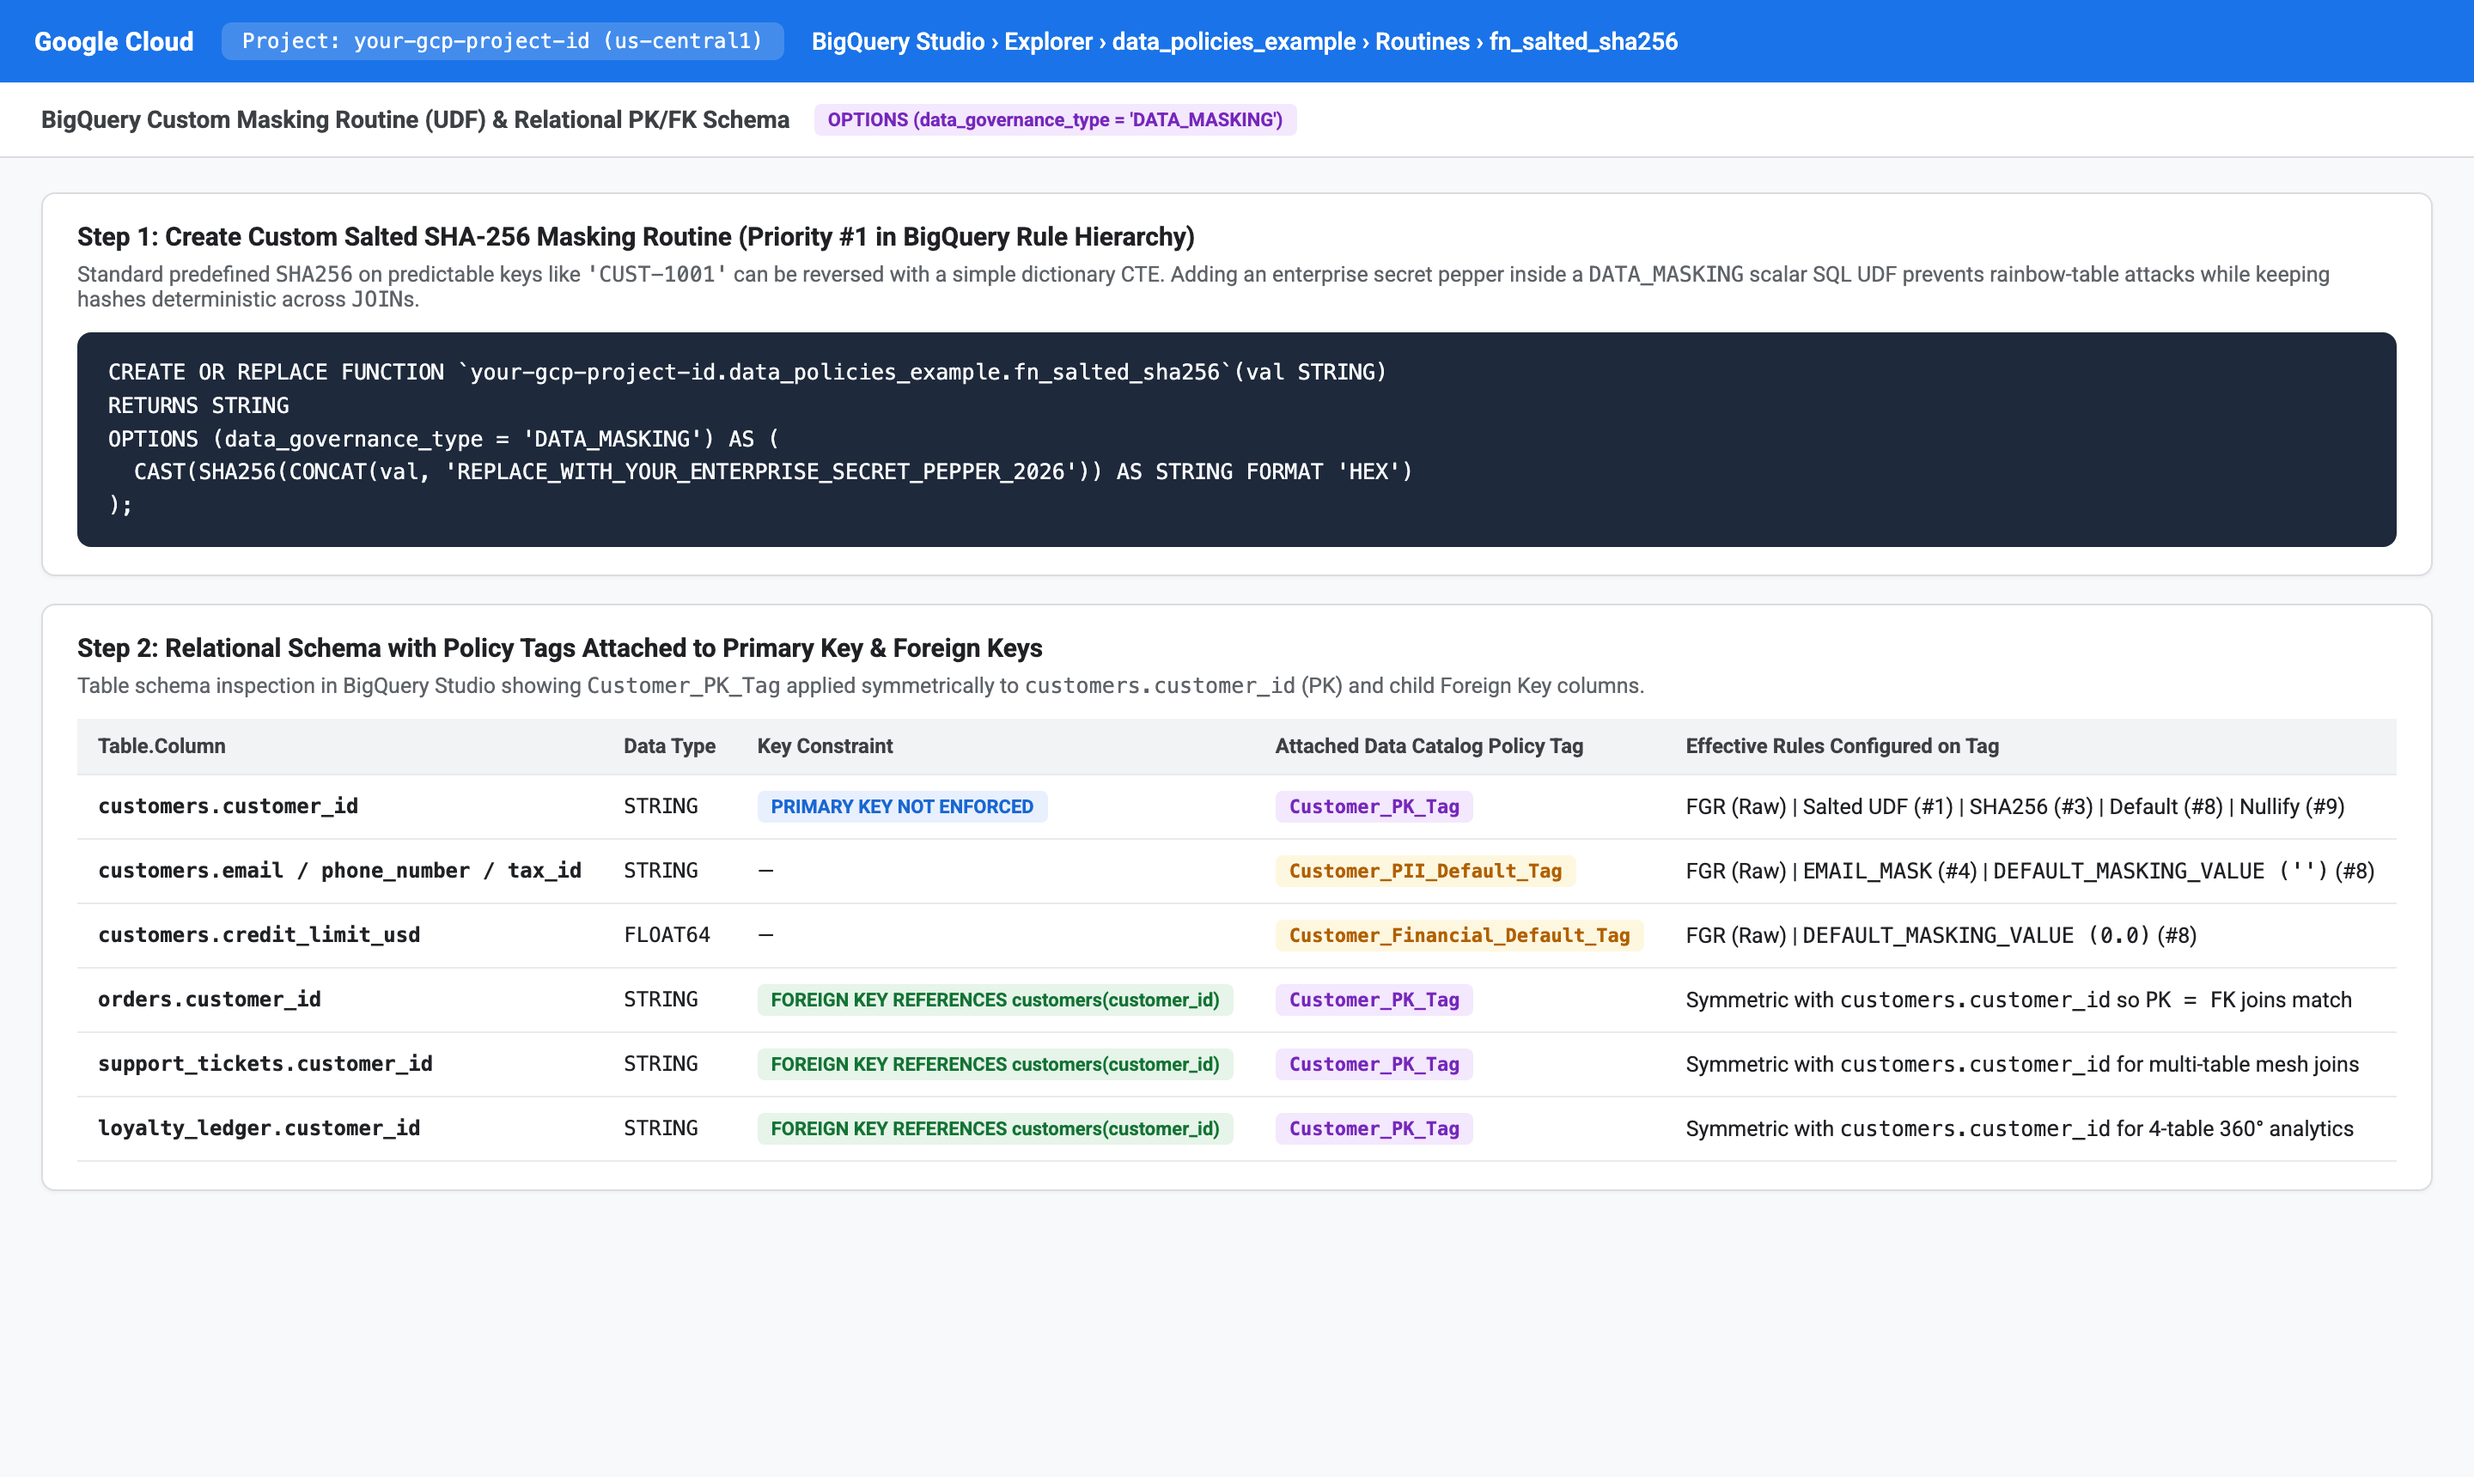
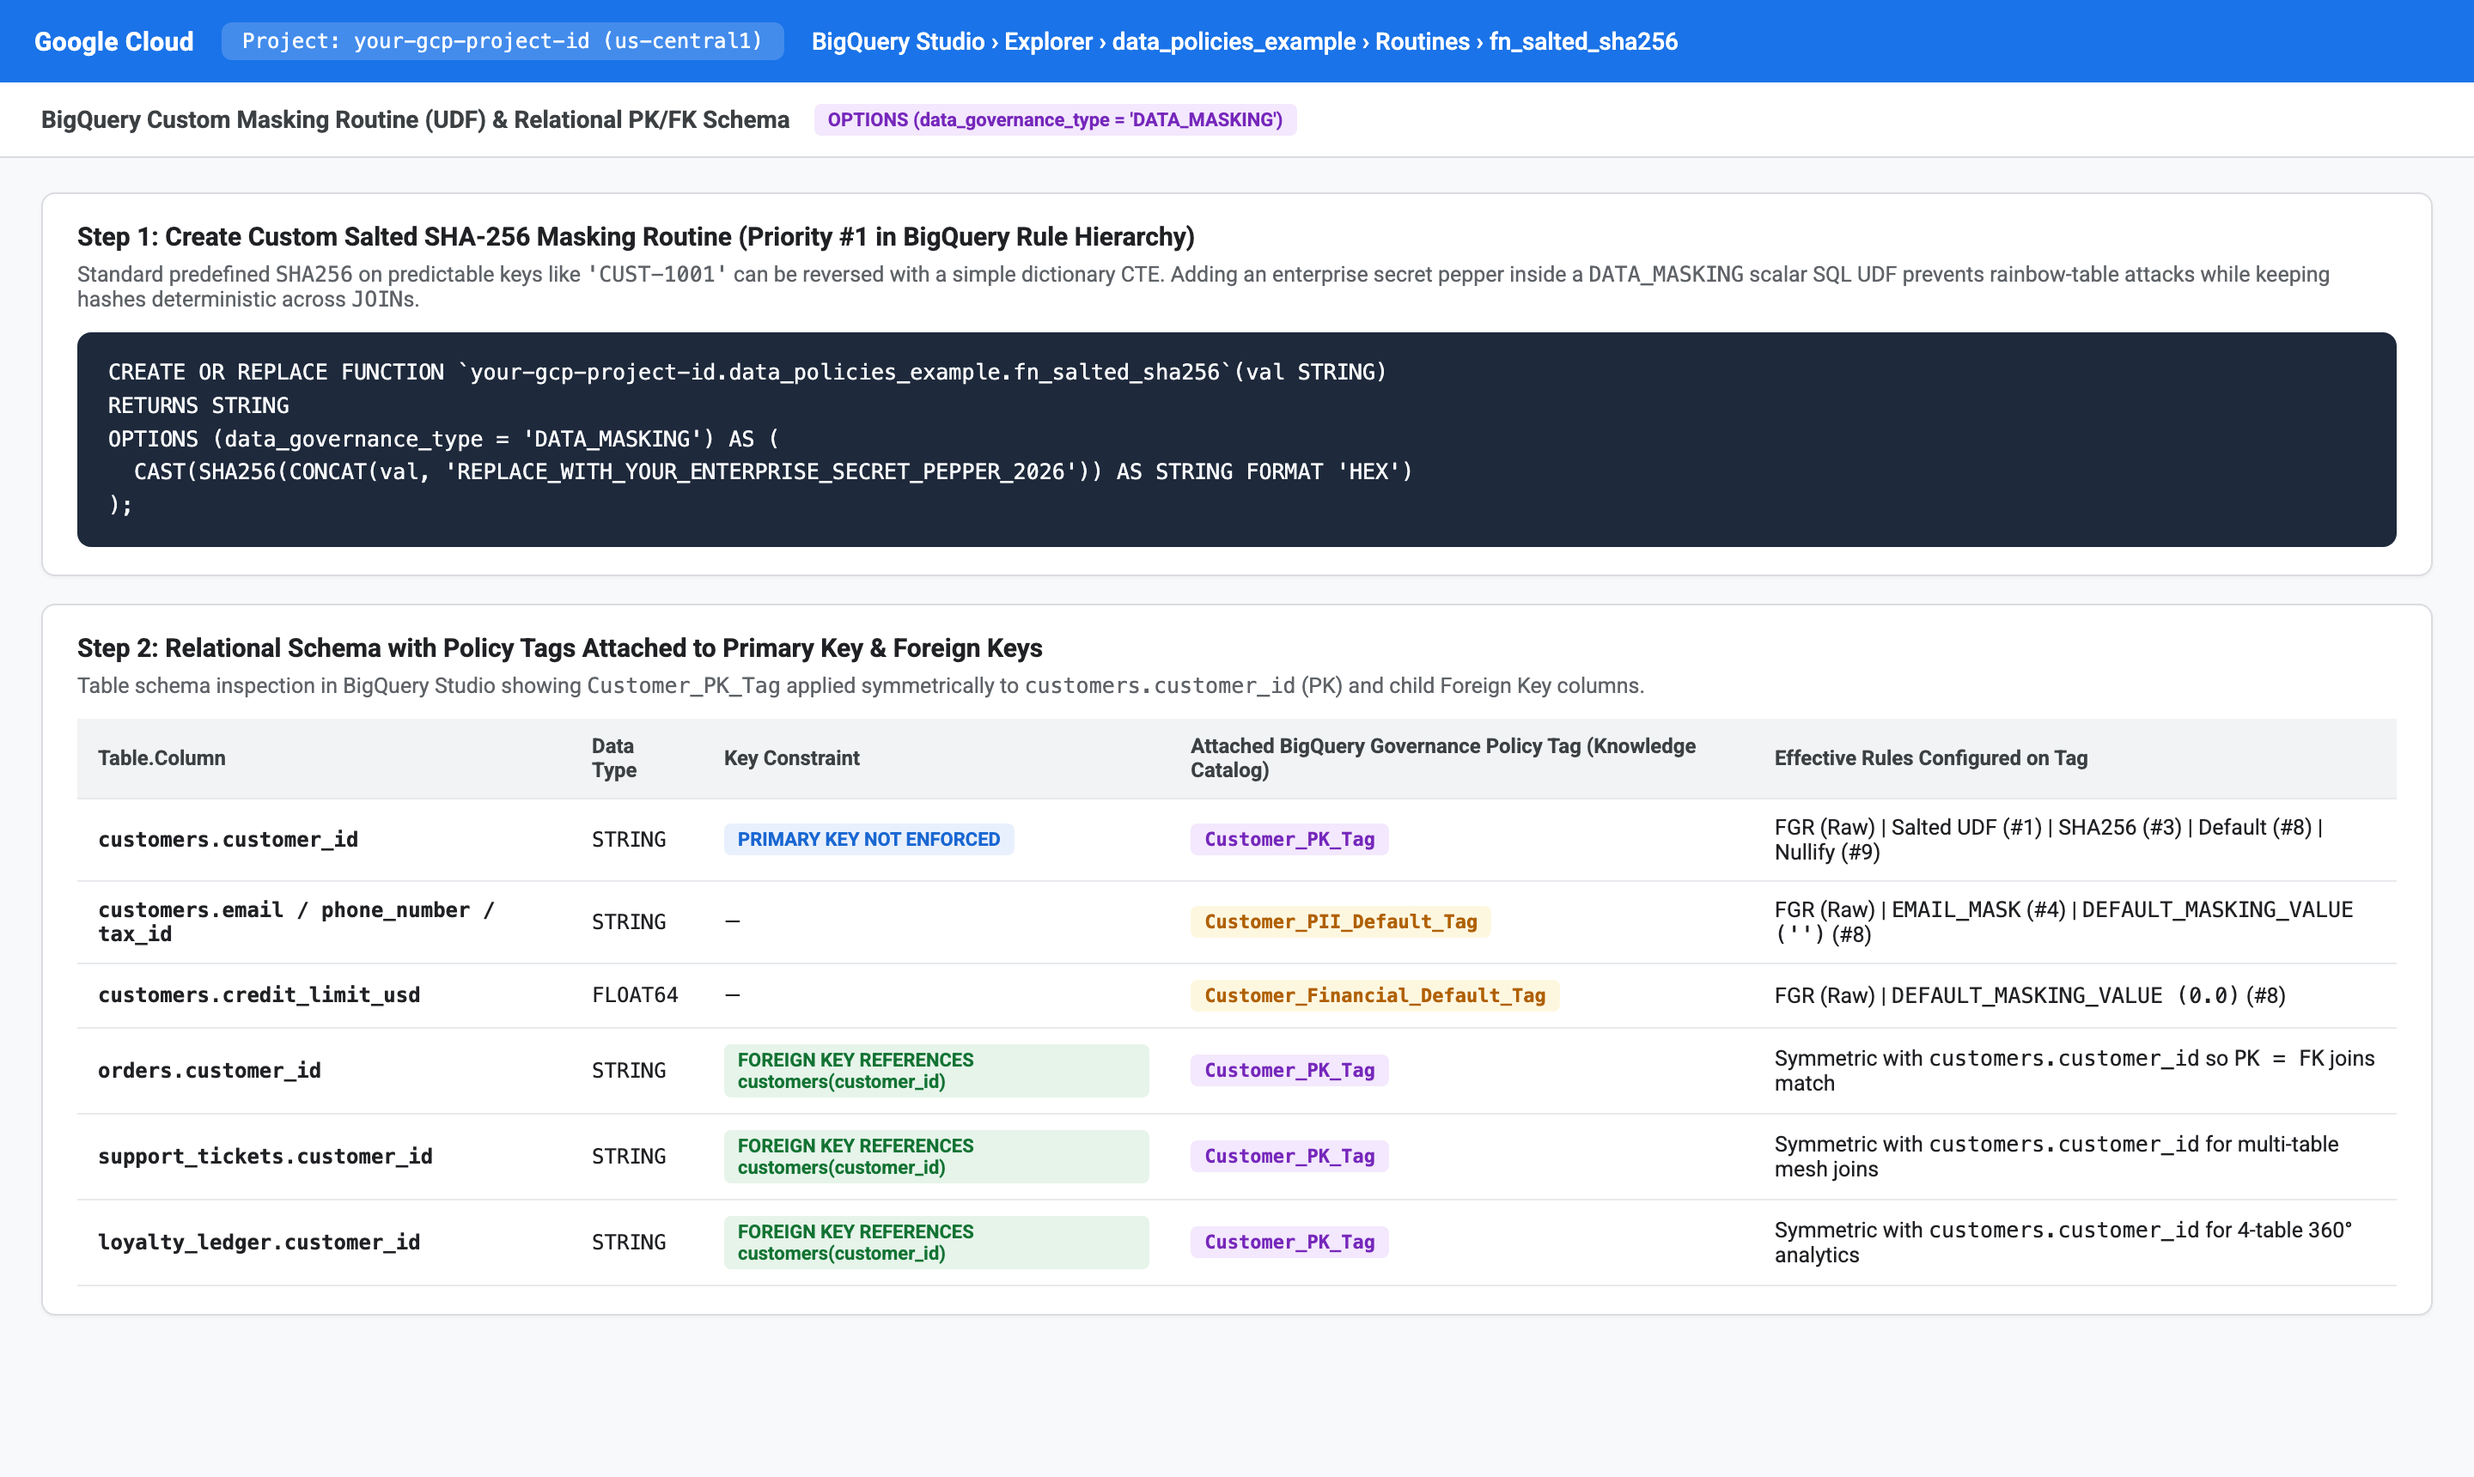
Use current Knowledge Catalog & BigQuery Governance Policy Tag naming across docs, UI, and screenshots

diff --git a/frontend/dist/index.html b/frontend/dist/index.html
@@ -66,7 +66,7 @@
         <div class="top-bar-left">
           <div class="eyebrow-chips">
             <span class="chip chip-blue">LIVE BIGQUERY EXECUTION</span>
-            <span class="chip chip-emerald">DATA CATALOG POLICY TAGS</span>
+            <span class="chip chip-emerald">KNOWLEDGE CATALOG &amp; BQ POLICY TAGS</span>
             <span class="chip chip-purple">CUSTOM UDF: fn_salted_sha256</span>
           </div>
           <h1 class="page-title">Multiple Dynamic Masking Policies on a Relational Primary &amp; Foreign Key</h1>
@@ -277,7 +277,7 @@ OPTIONS (data_governance_type = 'DATA_MASKING') AS (
             <div>
               <h2 class="section-title">Interactive Architecture Blueprint: Policy Tag &amp; Multi-Policy Join Topology</h2>
               <p class="section-desc">
-                Interactive SVG architecture map illustrating how Data Catalog Taxonomy <code>CustomerGovernanceTaxonomy</code>, the 7 Data Policies, and the 4 relational tables interact at query runtime.
+                Interactive SVG architecture map illustrating how BigQuery Governance Policy Tag Taxonomy (Knowledge Catalog) <code>CustomerGovernanceTaxonomy</code>, the 7 Data Policies, and the 4 relational tables interact at query runtime.
               </p>
             </div>
             <a href="/architecture-map.html" target="_blank" rel="noopener noreferrer" class="btn btn-secondary">

diff --git a/frontend/dist/app.js b/frontend/dist/app.js
@@ -236,7 +236,7 @@ function populateResourcesList(state, links) {
       url: links.bigquery_dataset,
     },
     {
-      name: "Data Catalog Taxonomy: CustomerGovernanceTaxonomy",
+      name: "BigQuery Governance Policy Tag Taxonomy (Knowledge Catalog): CustomerGovernanceTaxonomy",
       id: state.taxonomy.name,
       url: links.policy_tag_taxonomy,
     },
@@ -288,8 +288,8 @@ function populateImplementationGuide(state, sqlScripts) {
 
   const steps = [
     {
-      title: `Part 1: Provision Data Catalog Taxonomy & Policy Tags (${state.location})`,
-      desc: "Create the fine-grained access control taxonomy CustomerGovernanceTaxonomy and the Customer_PK_Tag policy tag attached to both Primary Key and Foreign Key columns.",
+      title: `Part 1: Provision BigQuery Governance Policy Tag Taxonomy (Knowledge Catalog) & Policy Tags (${state.location})`,
+      desc: "Create the fine-grained access control taxonomy CustomerGovernanceTaxonomy (in BigQuery > Governance > Policy tags) and the Customer_PK_Tag policy tag attached to both Primary Key and Foreign Key columns.",
       code: `cp .env.example .env
 # Edit .env with GOOGLE_CLOUD_PROJECT="${state.project_id}" and your persona principals
 

diff --git a/frontend/dist/architecture-map.html b/frontend/dist/architecture-map.html
@@ -155,10 +155,10 @@
       <text x="68" y="630" fill="#cbd5e1" font-size="10">BigQuery 9-Tier Hierarchy selects Priority #1 (Salted UDF)</text>
       <text x="68" y="646" fill="#cbd5e1" font-size="10">over Priority #9 (ALWAYS_NULL) -> 12 Rows Returned</text>
 
-      <!-- Column 2: Data Catalog Policy Tag & Data Policies -->
+      <!-- Column 2: Knowledge Catalog & BigQuery Governance Policy Tag & Data Policies -->
       <rect x="420" y="24" width="430" height="672" rx="14" fill="#111827" stroke="#334155" />
-      <text x="440" y="56" fill="#f8fafc" font-size="15" font-weight="700">2. Data Catalog Taxonomy &amp; Data Policies</text>
-      <text x="440" y="76" fill="#94a3b8" font-size="11">Taxonomy: CustomerGovernanceTaxonomy (us-central1)</text>
+      <text x="440" y="56" fill="#f8fafc" font-size="14" font-weight="700">2. Knowledge Catalog &amp; BQ Policy Tags + Data Policies</text>
+      <text x="440" y="76" fill="#94a3b8" font-size="11">BigQuery Governance Taxonomy: CustomerGovernanceTaxonomy (us-central1)</text>
 
       <!-- Central Policy Tag Box -->
       <rect x="444" y="96" width="382" height="68" rx="10" fill="#1e3a8a" fill-opacity="0.45" stroke="#3b82f6" stroke-width="2" />

diff --git a/provisioning/provision_all.py b/provisioning/provision_all.py
@@ -4,7 +4,7 @@
 Provisions in your configured Google Cloud project (default location `us-central1`, dataset `data_policies_example`):
 1. BigQuery Dataset `data_policies_example`
 2. Custom Masking Routine (UDF) `fn_salted_sha256` with `OPTIONS (data_governance_type = 'DATA_MASKING')`
-3. Data Catalog Taxonomy `CustomerGovernanceTaxonomy` and Policy Tags:
+3. BigQuery Governance Policy Tag Taxonomy (Knowledge Catalog) `CustomerGovernanceTaxonomy` and Policy Tags:
    - `Customer_PK_Tag` (applied to PK & FK `customer_id` columns across 4 relational tables)
    - `Customer_PII_Default_Tag` (applied to `email`, `phone_number`, `tax_id`)
    - `Customer_Financial_Default_Tag` (applied to `credit_limit_usd`)
@@ -122,7 +122,7 @@ def api_headers() -> dict[str, str]:
 
 
 def ensure_taxonomy_and_tags(headers: dict[str, str]) -> tuple[str, dict[str, str]]:
-    print("\n[1/6] Ensuring Data Catalog Taxonomy & Policy Tags...")
+    print("\n[1/6] Ensuring BigQuery Governance Policy Tag Taxonomy (Knowledge Catalog) & Policy Tags...")
     parent = f"projects/{PROJECT_ID}/locations/{LOCATION}"
     resp = requests.get(f"{DATACATALOG_API}/{parent}/taxonomies", headers=headers, timeout=30)
     resp.raise_for_status()
@@ -647,7 +647,7 @@ def create_tables_and_seed_data(bq_client: bigquery.Client, tags: dict[str, str]
         bq_client.query(stmt, job_config=job_config).result()
         print(f"  ✓ Executed DDL/DML step {idx}/{len(ddl_statements)}")
 
-    # Attach Data Catalog Policy Tags to columns via SchemaField PolicyTagList
+    # Attach BigQuery Governance Policy Tags (Knowledge Catalog) to columns via SchemaField PolicyTagList
     table_column_tags = {
         "customers": {
             "customer_id": pk_tag,
@@ -731,7 +731,7 @@ def main() -> int:
                 "user_email": ADMIN_EMAIL,
                 "sa_email": PERSONA_SAS["admin"],
                 "title": "Data Governance Admin",
-                "role_label": "Data Catalog Fine-Grained Reader (on Policy Tags)",
+                "role_label": "Fine-Grained Reader (on Policy Tags)",
                 "pk_policy": "RAW_PLAINTEXT (Fine-Grained Reader)",
                 "pk_example": "CUST-1001",
                 "join_capable": True,

diff --git a/README.md b/README.md
@@ -3,7 +3,7 @@
 **Repository:** `https://github.com/gargravish/bq-data-policy-lab`  
 **Default Dataset:** `data_policies_example` (`us-central1`) | **Taxonomy:** `CustomerGovernanceTaxonomy`
 
-This repository provides a **self-contained customer implementation guide, automated idempotent provisioning suite, live multi-persona verification harness, and interactive web workbench** demonstrating how multiple **BigQuery Column-Level Dynamic Data Masking Policies** attached to a single **Data Catalog Policy Tag (`Customer_PK_Tag`)** behave across relational Primary Key (`PK`) and Foreign Key (`FK`) `JOIN`s.
+This repository provides a **self-contained customer implementation guide, automated idempotent provisioning suite, live multi-persona verification harness, and interactive web workbench** demonstrating how multiple **BigQuery Column-Level Dynamic Data Masking Policies** attached to a single **BigQuery Governance Policy Tag (`Customer_PK_Tag`)**—integrated with **Knowledge Catalog (Dataplex)**—behave across relational Primary Key (`PK`) and Foreign Key (`FK`) `JOIN`s.
 
 ---
 
@@ -13,7 +13,7 @@ All personas execute the **exact same SQL queries** against `data_policies_examp
 
 | Persona / Identity | Role & Policy Assignment | What They See on `customer_id` (PK & FK) | Secondary PII (`email`) & Financial (`credit_limit_usd`) | Cross-Table `JOIN` Capability (`customers ⋈ orders`) | Live Row Count |
 | :--- | :--- | :--- | :--- | :--- | :--- |
-| **Persona 1: Data Governance Admin**<br/>(`ADMIN_USER_EMAIL` / `dp-persona-admin` SA) | **Data Catalog Fine-Grained Reader** (`roles/datacatalog.categoryFineGrainedReader`) on Policy Tags | Raw plaintext:<br/>`'CUST-1001'` | `'alice.smith@acme-global.com'`<br/>`$25,000.00` | **Yes** — Evaluates `'CUST-1001' = 'CUST-1001'` | **12 rows** (2-table)<br/>**7 rows** (4-table) |
+| **Persona 1: Data Governance Admin**<br/>(`ADMIN_USER_EMAIL` / `dp-persona-admin` SA) | **Fine-Grained Reader** (`roles/datacatalog.categoryFineGrainedReader`) on Policy Tags | Raw plaintext:<br/>`'CUST-1001'` | `'alice.smith@acme-global.com'`<br/>`$25,000.00` | **Yes** — Evaluates `'CUST-1001' = 'CUST-1001'` | **12 rows** (2-table)<br/>**7 rows** (4-table) |
 | **Persona 2: Lead Data Scientist**<br/>(`ANALYST_USER_EMAIL` / `dp-persona-testuser` SA) | **BigQuery Masked Reader** (`roles/bigquerydatapolicy.maskedReader`) on **Policy 1 (`dp_customer_pk_salted_sha256`)** — Custom Masking Routine (`fn_salted_sha256`, Priority `#1`) | Salted SHA-256 Hex:<br/>`'9e8efd65e632352c...2e6408d4'` | `'XXXXX@acme-global.com'` (`EMAIL_MASK`)<br/>`$25,000.00` | **Yes** — Evaluates `SaltedSHA256 = SaltedSHA256` across all 4 tables; **immune to rainbow-table reversal** | **12 rows** (2-table)<br/>**7 rows** (4-table) |
 | **Persona 3: External Contractor / Auditor**<br/>(`AUDITOR_USER_EMAIL` / `dp-persona-test2` SA) | **BigQuery Masked Reader** on **Policy 2 (`dp_customer_pk_null`, `ALWAYS_NULL`)** on PK + **`DEFAULT_MASKING_VALUE`** on PII/Financial | Obscured:<br/>`NULL` | `""` (empty string)<br/>`0.0` | **No** — Evaluates `NULL = NULL` as `UNKNOWN` in SQL three-valued logic, safely blocking correlation | **0 rows** (2-table)<br/>**0 rows** (4-table) |
 | **Comparison Persona: Unsalted SHA-256**<br/>(`dp-persona-sha256` SA) | **BigQuery Masked Reader** on **Policy 3 (`dp_customer_pk_sha256`, Predefined `SHA256`, Priority `#3`)** | Base64 SHA-256:<br/>`'vzfLri/gZxdYrzVs...AnZvn8='` | `'XXXXX@acme-global.com'`<br/>`0.0` | **Yes**, but **vulnerable to Rainbow Table dictionary lookup** on sequential IDs (`'CUST-1001'`) | **12 rows** (2-table)<br/>**7 rows** (4-table) |
@@ -35,7 +35,7 @@ flowchart LR
     C["dp-persona-conflict<br/>Bound to Policy 1 (#1) + Policy 2 (#9)"]
   end
 
-  subgraph Governance["2. Data Catalog Taxonomy & Data Policies (us-central1)"]
+  subgraph Governance["2. Knowledge Catalog & BigQuery Governance Policy Tags + Data Policies (us-central1)"]
     TAG["Policy Tag: Customer_PK_Tag<br/>(Taxonomy: CustomerGovernanceTaxonomy)"]
     P1["Policy 1: dp_customer_pk_salted_sha256<br/>Priority #1: Custom UDF fn_salted_sha256"]
     P3["Policy 3: dp_customer_pk_sha256<br/>Priority #3: Predefined SHA256"]
@@ -145,12 +145,16 @@ OPTIONS (data_governance_type = 'DATA_MASKING') AS (
 > **Why Custom Salted SHA-256 instead of Predefined `SHA256`?**
 > Predefined `SHA256` computes an unsalted hash (`TO_BASE64(SHA256('CUST-1001'))` = `'vzfLri/gZxdYrzVsm7yJzqs/c6w2hMce+H5eqAnZvn8='`). Because primary keys like `'CUST-1001'` follow a known sequential pattern, any analyst can generate a dictionary CTE of `SHA256('CUST-1001'..'CUST-9999')` and join it against the masked column to reverse every ID. By embedding an enterprise secret pepper inside `fn_salted_sha256`, authorized data scientists receive deterministic hashes that join seamlessly across `customers`, `orders`, `support_tickets`, and `loyalty_ledger` while defeating rainbow-table lookups.
 
-### Part 2: Create Data Catalog Taxonomy, Policy Tags, & BigQuery Data Policies
+### Part 2: Create BigQuery Governance Policy Tag Taxonomy (Knowledge Catalog) & BigQuery Data Policies
+
+> **Important Note on Current Google Cloud Naming vs. Underlying REST/IAM Identifiers:**
+> Standalone **Google Cloud Data Catalog** is deprecated and replaced by **Knowledge Catalog** (formerly *Dataplex Universal Catalog*, managed via `dataplex.googleapis.com/v1`). In the Google Cloud Console, Policy Tag Taxonomies and Data Policies are managed under **`BigQuery > Governance > Policy tags`** (`https://console.cloud.google.com/bigquery/security/secure/policy-tags`).
+> Under the hood, Google Cloud retains the `datacatalog.googleapis.com/v1` service endpoint (`taxonomies` and `policyTags`) and the `roles/datacatalog.categoryAdmin` / `roles/datacatalog.categoryFineGrainedReader` IAM role strings specifically for Policy Tag Taxonomies, while **BigQuery Data Policies** use `bigquerydatapolicy.googleapis.com` (`v1` for policy-tag-bound policies, or `v2` / `CREATE DATA_POLICY` DDL for Resource Manager Data Governance Tags and direct column data policies).
 
 ```bash
 TOKEN=$(gcloud auth print-access-token)
 
-# 1. Create Taxonomy with FINE_GRAINED_ACCESS_CONTROL
+# 1. Create BigQuery Governance Policy Tag Taxonomy with FINE_GRAINED_ACCESS_CONTROL
 curl -s -X POST \
   -H "Authorization: Bearer ${TOKEN}" \
   -H "Content-Type: application/json" \
